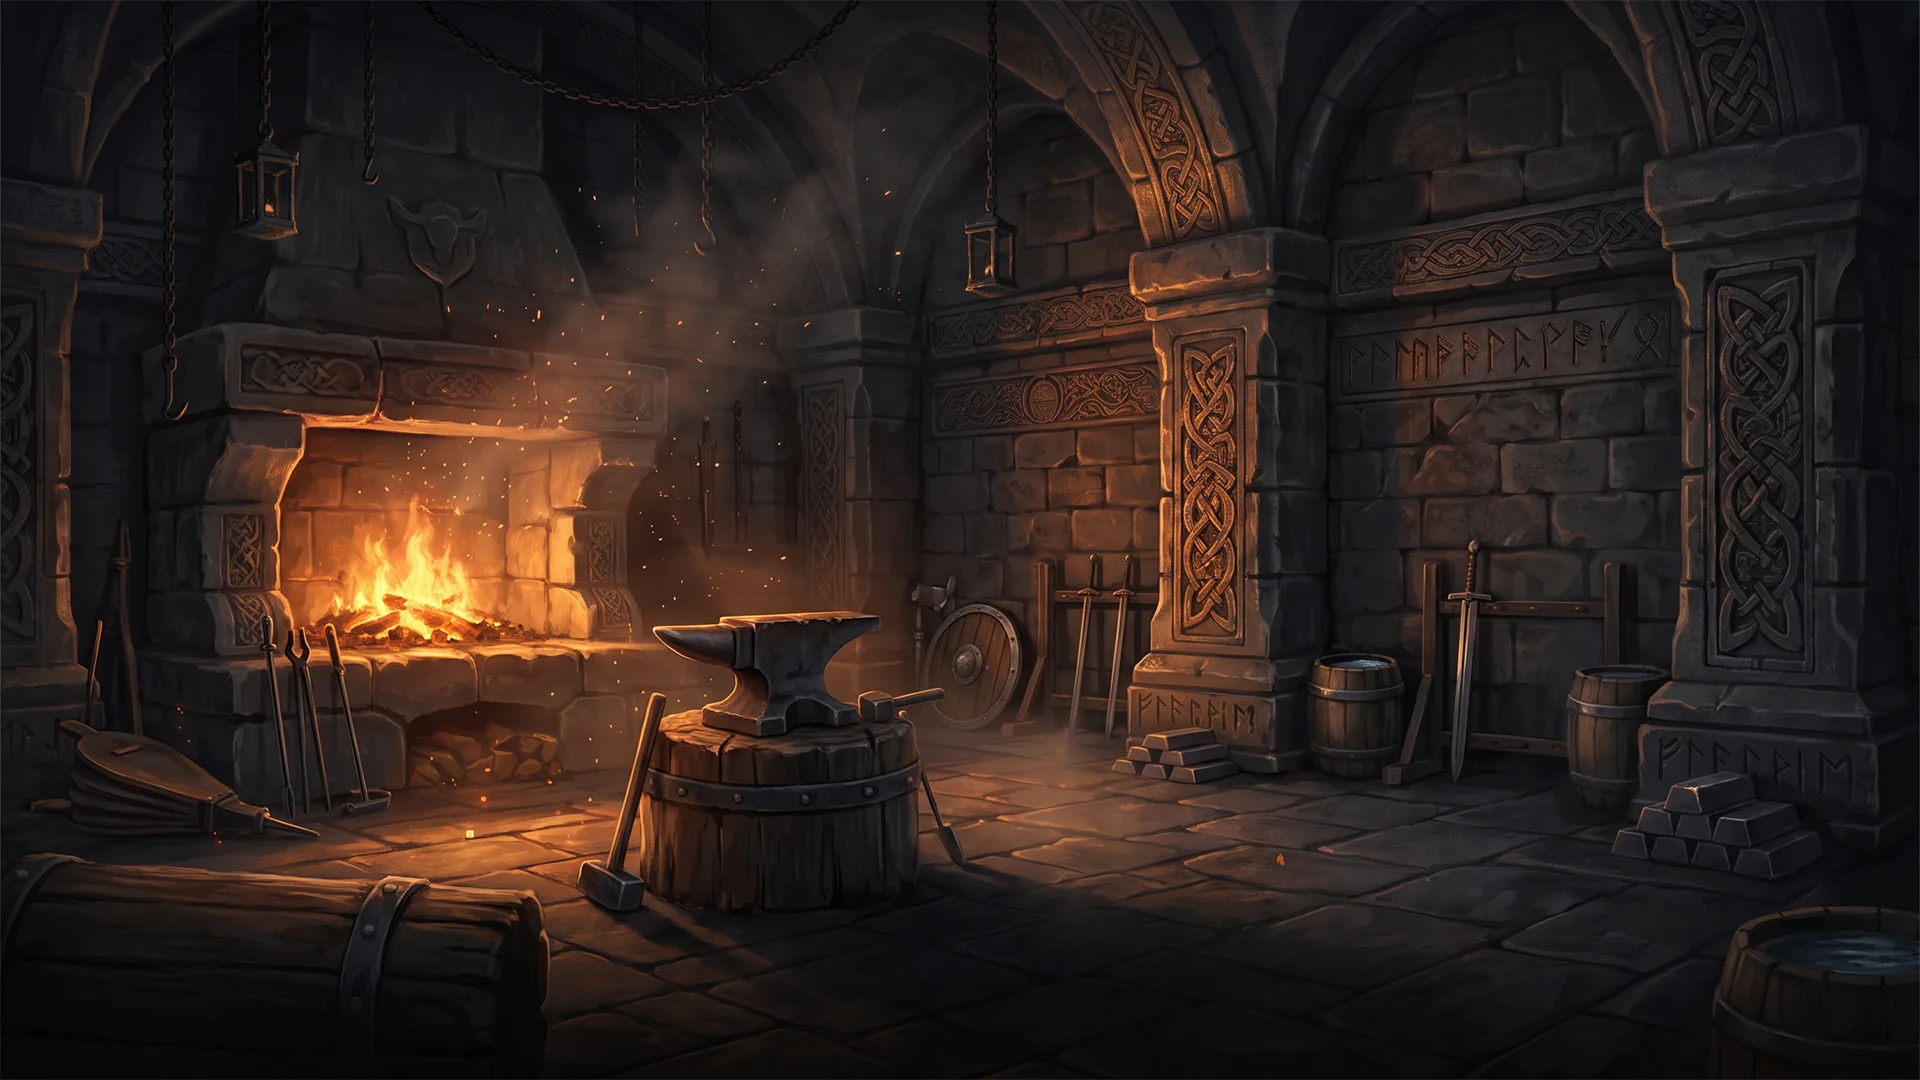
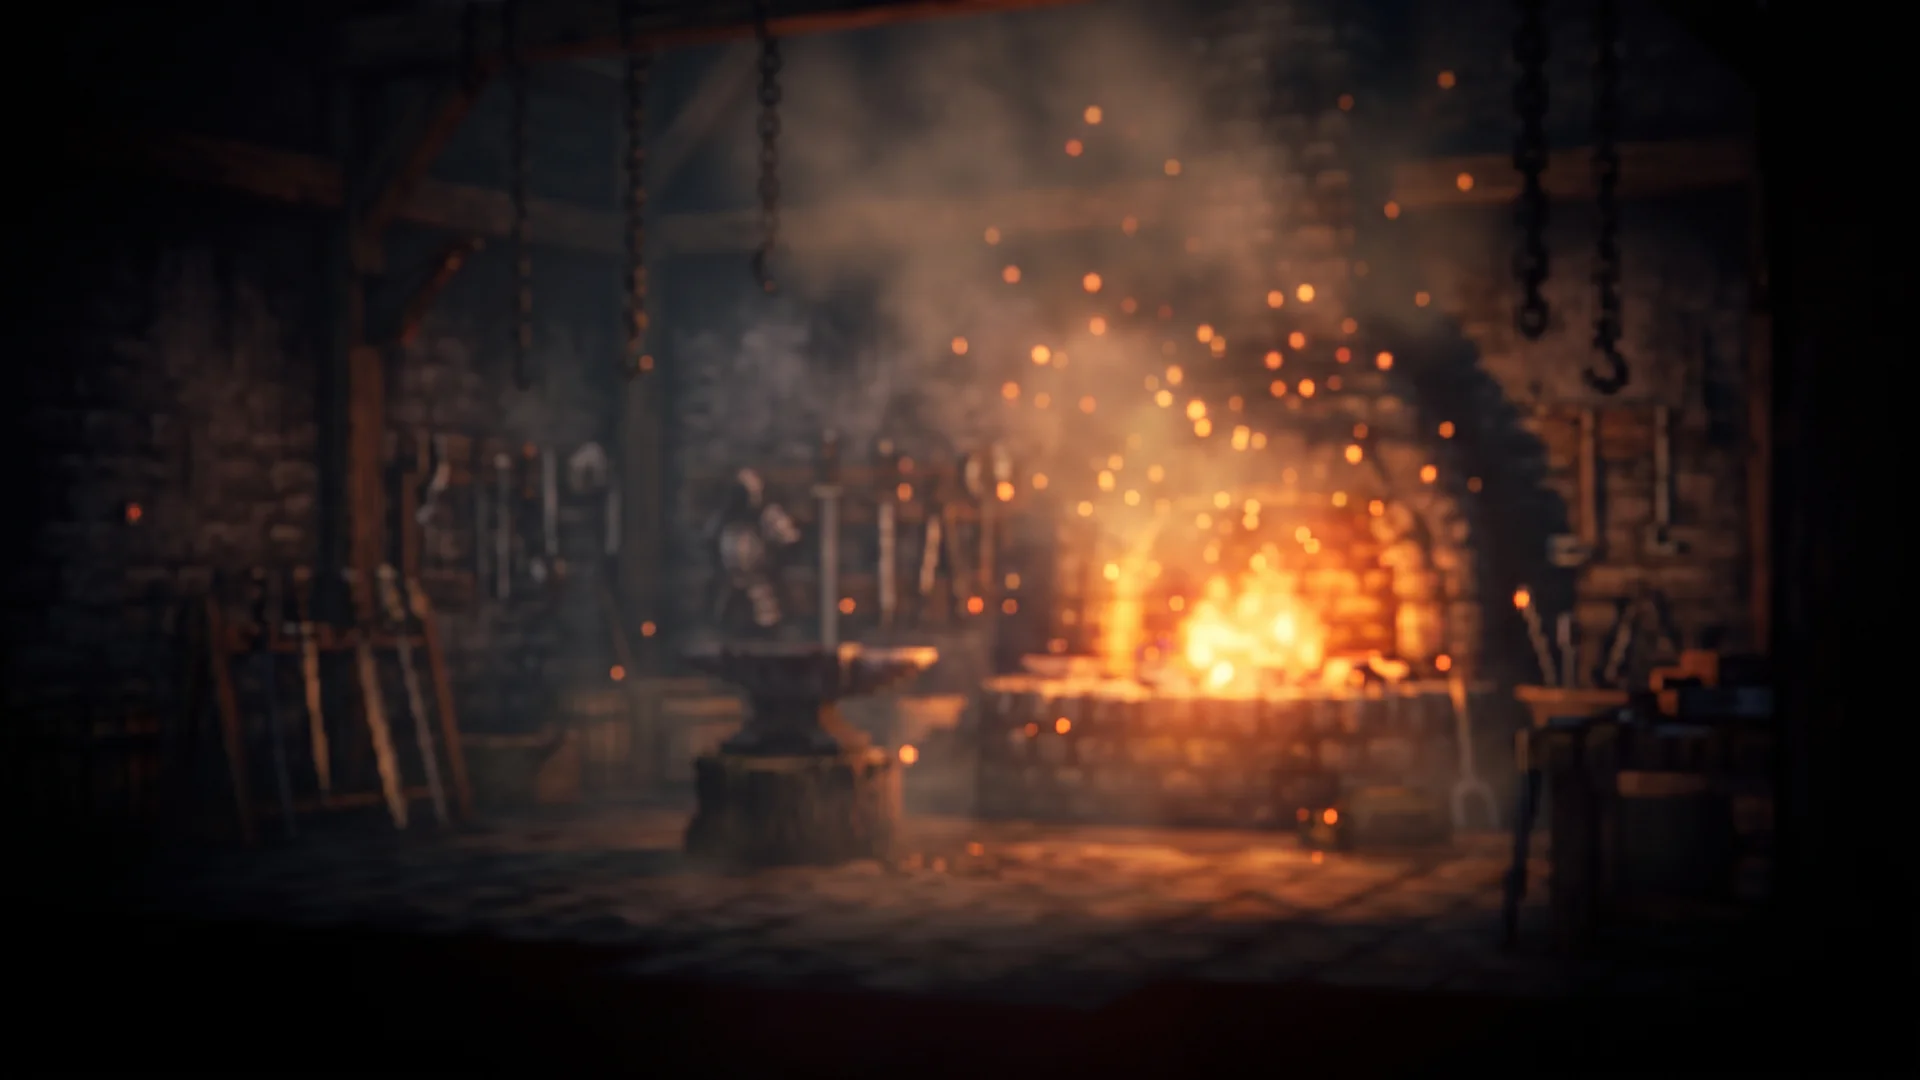
Shop and blacksmith backgrounds replaced; tent hand animation removed
Claude-Session: https://claude.ai/code/session_01W4v7cyzS6Fr8aMVaGgywWE

diff --git a/index.html b/index.html
@@ -1328,7 +1328,7 @@
         <div id="view-shop" class="hidden art-screen art-dark">
             <div id="shop-stage" class="town-stage" data-w="1920" data-h="1080">
                 <div class="ts-inner" style="width:1920px; height:1080px;">
-                    <img class="ts-bg" src="assets/pages/artisan/bg_q85.webp" alt="" style="width:1920px; height:1080px;" onerror="townSwap(this,'artisan bg')">
+                    <img class="ts-bg" src="assets/pages/shop/bg_q85.webp" alt="" style="width:1920px; height:1080px;" onerror="townSwap(this,'shop bg')">
                     <img class="art-frame" src="assets/pages/artisan/window_q85.webp" alt="" style="left:109px; top:95px; width:803px; height:953px;">
                     <img id="shop-frame-right" class="art-frame" src="assets/pages/artisan/window_q85.webp" alt="" style="left:1007px; top:95px; width:803px; height:953px;">
                     <div class="char-header-bar" style="left:0px; top:0px; width:1920px; height:70px;"></div>
@@ -1621,7 +1621,7 @@
     <script src="js/hero-body.js?v=20261112c"></script>
     <script src="js/combat.js?v=20261113c"></script>
     <script src="js/crit-fx.js?v=20261110e"></script>
-    <script src="js/ui.js?v=20261114l"></script>
+    <script src="js/ui.js?v=20261114m"></script>
     <script src="js/market.js?v=20261113c"></script>
     <script src="js/guide-intro.js?v=20261111a"></script>
     <script src="js/guide-upgrade.js?v=20261113e"></script>

diff --git a/js/ui.js b/js/ui.js
@@ -1763,7 +1763,7 @@ function tentHandPlay() {
 function syncTentHand() {
     const view = document.getElementById('view-character');
     const on = !!view && !view.classList.contains('hidden') && isCharClear();
-    if (on && !tentHandTimer) tentHandTimer = setInterval(tentHandPlay, 6000);
+    // Hand animation removed: the tent player stays on the base idle picture.
     if (!on) {
         if (tentHandTimer) { clearInterval(tentHandTimer); tentHandTimer = null; }
         if (tentHandFrameTimer) { clearInterval(tentHandFrameTimer); tentHandFrameTimer = null; }
